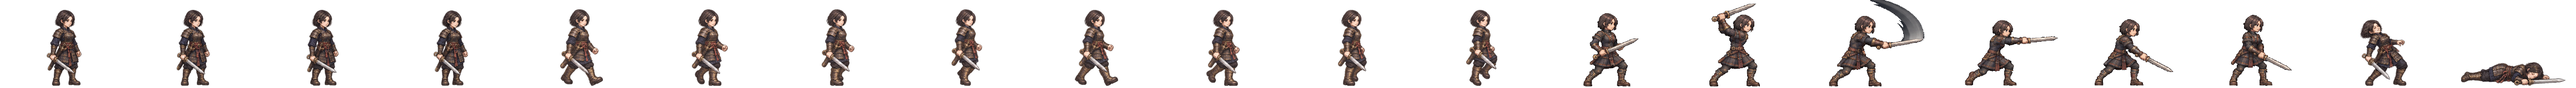
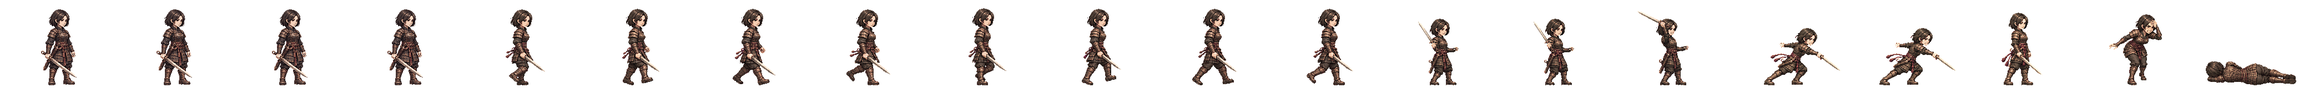
가야 검사 아라 새 전투 띠를 게임에 넣음(서기·걷기·한 손 칼 내려베기 여덟 칸·쓰러짐·칼날 살피기)
본 띠의 좁은 칸 공격은 덜 뻗은 칸으로(머리 위로 세운 칸은 위가, 끝까지 벤 칸은 앞이 넘친다).
하네스 장수 표에 다음 넷(범 사냥꾼·노을·사공·송비)을 더함.
띠 검사 합격 · 시험 2162 통과.

Claude-Session: https://claude.ai/code/session_01TRiuN7s6aDfSnaHxrkctmU

diff --git a/src/realm/data/spritePx.ts b/src/realm/data/spritePx.ts
@@ -1,3 +1,3 @@
 /** public/realm/anim-px/manifest.json 의 사본 — tools/sprite-normalize.mjs 가 만든다 (손으로 고치지 말 것). 칸 [가로, 세로] · feet = 발 줄(칸 위에서 y) · bodyPx = 서 있는 몸 키 */
 import { expandManifest } from './sprite-manifest.ts'
-export const SPRITE_PX: Readonly<Record<string, { readonly cell: readonly [number, number]; readonly feet: number; readonly bodyPx: number; readonly kind: 'general' | 'soldier' | 'folk' | 'crowd'; readonly cells: number }>> = expandManifest<{ readonly cell: readonly [number, number]; readonly feet: number; readonly bodyPx: number; readonly kind: 'general' | 'soldier' | 'folk' | 'crowd'; readonly cells: number }>([{"cell":[166,128],"feet":126,"bodyPx":124,"kind":"soldier","cells":20},{"cell":[116,128],"feet":126,"bodyPx":117,"kind":"soldier","cells":20},{"cell":[127,128],"feet":126,"bodyPx":116,"kind":"soldier","cells":20},{"cell":[269,128],"feet":126,"bodyPx":126,"kind":"soldier","cells":20},{"cell":[503,128],"feet":126,"bodyPx":127,"kind":"soldier","cells":20},{"cell":[614,128],"feet":126,"bodyPx":126,"kind":"soldier","cells":20},{"cell":[200,160],"feet":156,"bodyPx":138,"kind":"general","cells":20},{"cell":[208,160],"feet":155,"bodyPx":138,"kind":"general","cells":20},{"cell":[232,160],"feet":156,"bodyPx":138,"kind":"general","cells":20},{"cell":[208,160],"feet":154,"bodyPx":138,"kind":"general","cells":20},{"cell":[304,160],"feet":155,"bodyPx":135,"kind":"general","cells":20},{"cell":[224,160],"feet":156,"bodyPx":139,"kind":"general","cells":20},{"cell":[184,160],"feet":156,"bodyPx":138,"kind":"general","cells":20},{"cell":[208,160],"feet":154,"bodyPx":136,"kind":"general","cells":20},{"cell":[240,160],"feet":156,"bodyPx":138,"kind":"general","cells":20},{"cell":[208,160],"feet":156,"bodyPx":138,"kind":"general","cells":20},{"cell":[168,160],"feet":156,"bodyPx":138,"kind":"general","cells":20},{"cell":[192,160],"feet":156,"bodyPx":138,"kind":"general","cells":20},{"cell":[168,160],"feet":156,"bodyPx":124,"kind":"general","cells":20},{"cell":[216,160],"feet":156,"bodyPx":130,"kind":"general","cells":20},{"cell":[200,160],"feet":156,"bodyPx":116,"kind":"general","cells":20},{"cell":[200,160],"feet":156,"bodyPx":135,"kind":"general","cells":20},{"cell":[280,160],"feet":156,"bodyPx":138,"kind":"general","cells":20},{"cell":[232,160],"feet":155,"bodyPx":138,"kind":"general","cells":20},{"cell":[232,160],"feet":156,"bodyPx":134,"kind":"general","cells":20},{"cell":[144,160],"feet":156,"bodyPx":70,"kind":"general","cells":20},{"cell":[208,160],"feet":156,"bodyPx":70,"kind":"general","cells":20},{"cell":[192,160],"feet":156,"bodyPx":70,"kind":"general","cells":20},{"cell":[240,160],"feet":155,"bodyPx":138,"kind":"general","cells":20},{"cell":[160,160],"feet":156,"bodyPx":135,"kind":"general","cells":20},{"cell":[192,160],"feet":156,"bodyPx":128,"kind":"general","cells":20},{"cell":[224,160],"feet":155,"bodyPx":138,"kind":"general","cells":20},{"cell":[232,160],"feet":156,"bodyPx":139,"kind":"general","cells":20},{"cell":[264,160],"feet":155,"bodyPx":138,"kind":"general","cells":20},{"cell":[216,160],"feet":156,"bodyPx":138,"kind":"general","cells":20},{"cell":[208,160],"feet":156,"bodyPx":134,"kind":"general","cells":20},{"cell":[176,160],"feet":156,"bodyPx":130,"kind":"general","cells":20},{"cell":[248,160],"feet":156,"bodyPx":138,"kind":"general","cells":20},{"cell":[248,160],"feet":155,"bodyPx":138,"kind":"general","cells":20},{"cell":[192,160],"feet":155,"bodyPx":138,"kind":"general","cells":20},{"cell":[192,160],"feet":156,"bodyPx":124,"kind":"general","cells":20},{"cell":[208,160],"feet":154,"bodyPx":131,"kind":"general","cells":20},{"cell":[256,160],"feet":156,"bodyPx":138,"kind":"general","cells":20},{"cell":[232,160],"feet":156,"bodyPx":73,"kind":"general","cells":20},{"cell":[256,160],"feet":155,"bodyPx":138,"kind":"general","cells":20},{"cell":[224,160],"feet":156,"bodyPx":138,"kind":"general","cells":20},{"cell":[264,160],"feet":156,"bodyPx":138,"kind":"general","cells":20},{"cell":[224,160],"feet":156,"bodyPx":128,"kind":"general","cells":20},{"cell":[176,160],"feet":156,"bodyPx":129,"kind":"general","cells":20},{"cell":[208,160],"feet":156,"bodyPx":132,"kind":"general","cells":20},{"cell":[216,160],"feet":155,"bodyPx":138,"kind":"general","cells":20},{"cell":[184,160],"feet":156,"bodyPx":122,"kind":"general","cells":20},{"cell":[176,160],"feet":156,"bodyPx":138,"kind":"general","cells":20},{"cell":[280,160],"feet":155,"bodyPx":133,"kind":"general","cells":20},{"cell":[176,160],"feet":156,"bodyPx":70,"kind":"general","cells":20},{"cell":[186,128],"feet":126,"bodyPx":127,"kind":"soldier","cells":20},{"cell":[298,128],"feet":126,"bodyPx":126,"kind":"soldier","cells":20},{"cell":[82,128],"feet":126,"bodyPx":114,"kind":"folk","cells":8},{"cell":[134,128],"feet":126,"bodyPx":119,"kind":"soldier","cells":20},{"cell":[380,128],"feet":126,"bodyPx":124,"kind":"soldier","cells":20},{"cell":[114,128],"feet":126,"bodyPx":115,"kind":"soldier","cells":20},{"cell":[122,128],"feet":126,"bodyPx":114,"kind":"soldier","cells":20},{"cell":[254,128],"feet":126,"bodyPx":128,"kind":"soldier","cells":20},{"cell":[438,128],"feet":126,"bodyPx":126,"kind":"soldier","cells":20},{"cell":[88,128],"feet":126,"bodyPx":113,"kind":"folk","cells":8},{"cell":[100,128],"feet":126,"bodyPx":115,"kind":"folk","cells":8},{"cell":[108,128],"feet":126,"bodyPx":115,"kind":"folk","cells":8},{"cell":[63,128],"feet":126,"bodyPx":113,"kind":"folk","cells":8},{"cell":[69,96],"feet":96,"bodyPx":96,"kind":"crowd","cells":1},{"cell":[54,96],"feet":96,"bodyPx":96,"kind":"crowd","cells":1},{"cell":[47,96],"feet":96,"bodyPx":96,"kind":"crowd","cells":1},{"cell":[49,96],"feet":96,"bodyPx":96,"kind":"crowd","cells":1},{"cell":[57,96],"feet":96,"bodyPx":96,"kind":"crowd","cells":1},{"cell":[55,96],"feet":96,"bodyPx":96,"kind":"crowd","cells":1},{"cell":[45,96],"feet":96,"bodyPx":96,"kind":"crowd","cells":1},{"cell":[53,96],"feet":96,"bodyPx":96,"kind":"crowd","cells":1},{"cell":[64,96],"feet":96,"bodyPx":96,"kind":"crowd","cells":1},{"cell":[208,160],"feet":154,"bodyPx":139,"kind":"general","cells":20},{"cell":[184,160],"feet":156,"bodyPx":124,"kind":"general","cells":20},{"cell":[184,160],"feet":156,"bodyPx":134,"kind":"general","cells":20},{"cell":[224,160],"feet":156,"bodyPx":133,"kind":"general","cells":20},{"cell":[192,160],"feet":156,"bodyPx":135,"kind":"general","cells":20},{"cell":[184,160],"feet":156,"bodyPx":137,"kind":"general","cells":20},{"cell":[216,160],"feet":156,"bodyPx":134,"kind":"general","cells":20},{"cell":[216,160],"feet":156,"bodyPx":132,"kind":"general","cells":20},{"cell":[288,160],"feet":156,"bodyPx":138,"kind":"general","cells":20},{"cell":[192,160],"feet":156,"bodyPx":118,"kind":"general","cells":20},{"cell":[192,160],"feet":156,"bodyPx":134,"kind":"general","cells":20},{"cell":[192,160],"feet":157,"bodyPx":139,"kind":"general","cells":20},{"cell":[184,160],"feet":156,"bodyPx":128,"kind":"general","cells":20},{"cell":[240,160],"feet":156,"bodyPx":128,"kind":"general","cells":20},{"cell":[184,160],"feet":156,"bodyPx":132,"kind":"general","cells":20},{"cell":[208,160],"feet":156,"bodyPx":123,"kind":"general","cells":20},{"cell":[208,160],"feet":154,"bodyPx":137,"kind":"general","cells":20},{"cell":[176,160],"feet":156,"bodyPx":116,"kind":"general","cells":20},{"cell":[272,160],"feet":156,"bodyPx":138,"kind":"general","cells":20},{"cell":[176,160],"feet":156,"bodyPx":122,"kind":"general","cells":20},{"cell":[232,160],"feet":156,"bodyPx":127,"kind":"general","cells":20},{"cell":[176,160],"feet":156,"bodyPx":137,"kind":"general","cells":20},{"cell":[184,160],"feet":156,"bodyPx":133,"kind":"general","cells":20}],[["axe",0],["bandit-chief",1],["bandit-club",2],["boat",3],["bow",4],["crossbow",5],["gen-adogan",6],["gen-alpyeong",7],["gen-ara",8],["gen-areum",9],["gen-aryeong",10],["gen-bakdal",6],["gen-baram",11],["gen-bdanbi",12],["gen-beom",13],["gen-beombal",12],["gen-beomi",14],["gen-bira",8],["gen-biryu",15],["gen-budeul",16],["gen-byeol",17],["gen-daemusin",18],["gen-daeso",19],["gen-dallae2",12],["gen-dalli",12],["gen-damul",20],["gen-danbi",15],["gen-dangung",17],["gen-darae",21],["gen-dokmudeom",7],["gen-duman",22],["gen-eomni",23],["gen-eureum",24],["gen-g-bow",25],["gen-g-spear",26],["gen-g-sword",27],["gen-gaennae",6],["gen-gamsil",28],["gen-gaon",29],["gen-geota",15],["gen-geumbawi",12],["gen-geumha",30],["gen-goeun",15],["gen-gom",31],["gen-gomok",15],["gen-gureum",28],["gen-guryema",17],["gen-gwaeyu",8],["gen-haebi",9],["gen-haedal",6],["gen-haesol",32],["gen-halla",7],["gen-heo",33],["gen-hneoul",12],["gen-hogong",34],["gen-hojin",15],["gen-horselord",35],["gen-hwalmi",36],["gen-hyeokgeose",17],["gen-hyeopbo",6],["gen-irang",15],["gen-jibaekho",37],["gen-jinha",38],["gen-jita",39],["gen-jumong",40],["gen-keundol",7],["gen-maehwa",41],["gen-maenun",17],["gen-malgalgi",42],["gen-mari",14],["gen-maro",37],["gen-maryeo",15],["gen-mdallae",32],["gen-mir",6],["gen-mount",43],["gen-mulbeom",44],["gen-mulsae",34],["gen-musoe",34],["gen-noeul",45],["gen-nuri",46],["gen-ocheongan",45],["gen-odi",38],["gen-odogan",6],["gen-ogan",17],["gen-oi",47],["gen-olddaeso",24],["gen-onjo",48],["gen-pidogan",15],["gen-sagong",31],["gen-sdallae",6],["gen-sincheongan",34],["gen-singwigan",34],["gen-sinneoul",23],["gen-sobeol",23],["gen-soebi",6],["gen-soebo",49],["gen-soenun",37],["gen-sogeumbi",50],["gen-songbi",45],["gen-songyang",51],["gen-sori",52],["gen-soseono",53],["gen-suro",17],["gen-tahae",6],["gen-tneoul",45],["gen-w-bow",25],["gen-w-spear",54],["gen-waechief",15],["gen-wan",34],["gen-yeodogan",15],["gen-yucheongan",15],["gen-yusugan",37],["horse",55],["marine",56],["migrant",57],["militia",58],["pike",59],["pirate-captain",60],["pirate-sword",61],["shield",62],["spear",63],["villager-builder",64],["villager-farmer",65],["villager-porter",66],["villager-woman",67],["crowd-b1",68],["crowd-b2",69],["crowd-b3",70],["crowd-b4",71],["crowd-b5",72],["crowd-b6",73],["crowd-f1",68],["crowd-f2",73],["crowd-f3",74],["crowd-f4",75],["crowd-f5",68],["crowd-f6",76],["gen-dalbit",15],["gen-base-g-07-drunk-warrior",17],["gen-base-g-40-anya-adan",15],["gen-base-w-13-young-archer",9],["gen-base-g-03-sea-trader",14],["gen-base-w-10-pirate-captain",77],["gen-base-w-64-miri-dallae",77],["gen-base-g-41-goja-bau",14],["gen-base-g-42-dokro-garam",46],["gen-base-g-09-farmer-conscript",34],["gen-base-w-02-goguryeo-lady",34],["gen-base-w-17-mahan-pearl-diver",9],["gen-base-g-17-saro-isageum",49],["gen-base-g-18-daegaya-king",78],["gen-base-g-35-dabeol-dalgu",15],["gen-base-g-19-sabeol-veteran",34],["gen-base-w-23-usisan-whale-queen",34],["gen-base-g-36-gammun-gamdol",45],["gen-base-g-20-samul-sea-lord",42],["gen-base-g-37-eumjeup-jeup",12],["gen-base-g-38-chopal-palmae",17],["gen-base-w-75-daegaya-soemoe",17],["gen-base-g-45-dabeol-deulgae",12],["gen-base-g-04-jinhan-giant",15],["gen-base-g-08-veteran",15],["gen-base-w-18-jinhan-salt-widow",15],["gen-base-w-12-court-dancer",79],["gen-base-w-83-gyeonji-beodeul",80],["gen-base-w-05-baekje-queen",81],["gen-base-w-21-baekje-court-dancer",12],["gen-base-g-01-master-smith",82],["gen-base-g-93-jomun-solgae",36],["gen-base-g-57-bihwa-neup",14],["gen-base-w-72-eumjeup-beol",15],["gen-base-w-102-garak-dana",34],["gen-base-g-68-baekje-onnuri",15],["gen-base-w-27-mokji-jinha",6],["gen-base-g-22-ungcheon-gomnae",6],["gen-base-g-23-sangdang-soedal",15],["gen-base-g-24-wansan-onsan",6],["gen-base-g-25-balla-keunmoe",34],["gen-base-g-61-heomcheuk-bawi",34],["gen-base-g-88-wander-soeul",45],["gen-base-w-14-feast-spy",6],["gen-base-g-12-silla-youth",83],["gen-base-w-08-mahan-warrior",14],["gen-base-g-62-beonye-hanul",14],["gen-base-g-63-heomcheuk-beogeum",15],["gen-base-g-84-wander-seoneul",15],["gen-base-w-50-siljik-mulga",34],["gen-base-g-46-uga-nureongso",34],["gen-base-w-80-usan-gangchi",14],["gen-base-g-47-guga-sanyanggae",34],["gen-base-w-76-gampyeong-baetsagong",37],["gen-base-g-05-mahan-chieftain",84],["gen-base-g-58-usan-uhae",15],["gen-base-g-27-maek-maekdol",15],["gen-base-w-53-hwanna-gabi",16],["gen-base-w-29-golpo-janmul",37],["gen-base-g-53-baekje-haeru",6],["gen-base-w-71-yeonna-neoul",14],["gen-base-w-79-yangmaek-solmae",34],["gen-base-w-34-chopal-deulme",46],["gen-base-g-44-maga-malgup",85],["gen-base-w-31-dabeol-dalbit",77],["gen-base-g-51-biryuna-mulgyeol",45],["gen-base-g-48-gwanna-musoe",15],["gen-base-g-32-uga-sodu",8],["gen-base-g-49-goguryeo-sona",86],["gen-base-g-30-gwanna-soemoe",45],["gen-base-g-52-tamna-oreum",12],["gen-base-g-29-yeonna-myeongsol",40],["gen-base-w-56-dongokjeo-sogeum",87],["gen-base-g-54-mokji-mahan",8],["gen-base-g-33-jeoga-metdol",17],["gen-base-w-36-baekje-maena",17],["gen-base-w-38-sangdang-bulmae",6],["gen-base-w-39-gosaburi-galmae",88],["gen-base-w-40-mujin-munui",49],["gen-base-w-41-hwanna-beodeul",89],["gen-base-w-43-uga-nuri",42],["gen-base-w-45-tamna-oreumbi",12],["gen-base-g-60-golbeol-golgae",12],["gen-base-g-61-apdok-ap",34],["gen-base-g-62-gammun-gamnamu",6],["gen-base-g-63-chopal-yeoul",37],["gen-base-g-64-michuhol-sogeumkkun",14],["gen-base-g-65-sangdang-soemangchi",45],["gen-base-g-66-geonma-malbalgup",90],["gen-base-g-67-gosaburi-buri",91],["gen-base-g-68-mujin-bitgoeul",12],["gen-base-g-69-goryong-yong",45],["gen-base-g-70-siljik-pado",14],["gen-base-w-81-byeokjin-byeolbit",8],["gen-base-w-46-geonma-maru",37],["gen-base-w-48-mujin-mudeung",14],["gen-base-g-26-gampyeong-gaetbeol",8],["gen-base-g-60-eupcha-hangyeol",92],["gen-base-g-15-shaman-man",34],["gen-base-g-85-wander-ure",37],["gen-base-g-43-hwanna-amnok",15],["gen-base-g-50-bullae-gwaha",81],["gen-base-g-55-saro-bakdal",15],["gen-base-g-56-haseulla-gwahama",6],["gen-base-w-06-buyeo-huntress",93],["gen-base-w-22-dongye-tiger-huntress",14],["gen-base-w-25-bihwa-priestess",34],["gen-base-w-24-apdok-queen",12],["gen-base-w-61-iseo-sinae",15],["gen-base-w-26-iseo-tomboy-general",46],["gen-base-g-59-yangmaek-maekson",94],["gen-aw1-haebi",45],["gen-aw1-soseono",95],["gen-aw1-gamsil",12],["gen-aw1-mir",52],["gen-aw1-dangung",6],["gen-aw1-ara",45],["gen-aw1-jumong",96],["gen-aw1-onjo",97],["gen-aw1-base-w-83-gyeonji-beodeul",17],["gen-aw1-heo",46],["gen-aw1-base-g-38-chopal-palmae",6],["gen-aw1-base-w-25-bihwa-priestess",79],["gen-aw1-sori",16],["gen-aw1-gomok",6],["gen-aw1-irang",17],["gen-aw1-budeul",16],["gen-aw1-gom",14],["gen-aw1-sdallae",6],["gen-aw1-base-w-13-young-archer",6],["gen-aw1-base-w-36-baekje-maena",98],["gen-aw1-base-g-09-farmer-conscript",46],["gen-aw1-base-w-02-goguryeo-lady",99],["gen-aw1-haedal",12],["gen-aw1-hogong",6],["gen-aw1-maehwa",52],["gen-aw1-base-w-06-buyeo-huntress",8],["gen-aw1-base-w-08-mahan-warrior",45],["gen-aw1-base-w-29-golpo-janmul",45],["gen-aw1-base-w-31-dabeol-dalbit",17],["gen-aw1-base-w-38-sangdang-bulmae",16],["gen-aw1-bira",34],["gen-aw1-base-w-53-hwanna-gabi",16],["gen-aw1-base-w-56-dongokjeo-sogeum",52],["gen-aw1-base-w-72-eumjeup-beol",17],["gen-aw1-bdanbi",16],["gen-aw1-beom",12],["gen-aw1-beombal",12],["gen-aw1-byeol",17],["gen-aw1-dalli",52],["gen-aw1-malgalgi",37],["gen-aw1-sincheongan",34]])
+export const SPRITE_PX: Readonly<Record<string, { readonly cell: readonly [number, number]; readonly feet: number; readonly bodyPx: number; readonly kind: 'general' | 'soldier' | 'folk' | 'crowd'; readonly cells: number }>> = expandManifest<{ readonly cell: readonly [number, number]; readonly feet: number; readonly bodyPx: number; readonly kind: 'general' | 'soldier' | 'folk' | 'crowd'; readonly cells: number }>([{"cell":[166,128],"feet":126,"bodyPx":124,"kind":"soldier","cells":20},{"cell":[116,128],"feet":126,"bodyPx":117,"kind":"soldier","cells":20},{"cell":[127,128],"feet":126,"bodyPx":116,"kind":"soldier","cells":20},{"cell":[269,128],"feet":126,"bodyPx":126,"kind":"soldier","cells":20},{"cell":[503,128],"feet":126,"bodyPx":127,"kind":"soldier","cells":20},{"cell":[614,128],"feet":126,"bodyPx":126,"kind":"soldier","cells":20},{"cell":[200,160],"feet":156,"bodyPx":138,"kind":"general","cells":20},{"cell":[208,160],"feet":155,"bodyPx":138,"kind":"general","cells":20},{"cell":[208,160],"feet":154,"bodyPx":138,"kind":"general","cells":20},{"cell":[304,160],"feet":155,"bodyPx":135,"kind":"general","cells":20},{"cell":[224,160],"feet":156,"bodyPx":139,"kind":"general","cells":20},{"cell":[184,160],"feet":156,"bodyPx":138,"kind":"general","cells":20},{"cell":[208,160],"feet":154,"bodyPx":136,"kind":"general","cells":20},{"cell":[240,160],"feet":156,"bodyPx":138,"kind":"general","cells":20},{"cell":[232,160],"feet":156,"bodyPx":138,"kind":"general","cells":20},{"cell":[208,160],"feet":156,"bodyPx":138,"kind":"general","cells":20},{"cell":[168,160],"feet":156,"bodyPx":138,"kind":"general","cells":20},{"cell":[192,160],"feet":156,"bodyPx":138,"kind":"general","cells":20},{"cell":[168,160],"feet":156,"bodyPx":124,"kind":"general","cells":20},{"cell":[216,160],"feet":156,"bodyPx":130,"kind":"general","cells":20},{"cell":[200,160],"feet":156,"bodyPx":116,"kind":"general","cells":20},{"cell":[200,160],"feet":156,"bodyPx":135,"kind":"general","cells":20},{"cell":[280,160],"feet":156,"bodyPx":138,"kind":"general","cells":20},{"cell":[232,160],"feet":155,"bodyPx":138,"kind":"general","cells":20},{"cell":[232,160],"feet":156,"bodyPx":134,"kind":"general","cells":20},{"cell":[144,160],"feet":156,"bodyPx":70,"kind":"general","cells":20},{"cell":[208,160],"feet":156,"bodyPx":70,"kind":"general","cells":20},{"cell":[192,160],"feet":156,"bodyPx":70,"kind":"general","cells":20},{"cell":[240,160],"feet":155,"bodyPx":138,"kind":"general","cells":20},{"cell":[160,160],"feet":156,"bodyPx":135,"kind":"general","cells":20},{"cell":[192,160],"feet":156,"bodyPx":128,"kind":"general","cells":20},{"cell":[224,160],"feet":155,"bodyPx":138,"kind":"general","cells":20},{"cell":[232,160],"feet":156,"bodyPx":139,"kind":"general","cells":20},{"cell":[264,160],"feet":155,"bodyPx":138,"kind":"general","cells":20},{"cell":[216,160],"feet":156,"bodyPx":138,"kind":"general","cells":20},{"cell":[208,160],"feet":156,"bodyPx":134,"kind":"general","cells":20},{"cell":[176,160],"feet":156,"bodyPx":130,"kind":"general","cells":20},{"cell":[248,160],"feet":156,"bodyPx":138,"kind":"general","cells":20},{"cell":[248,160],"feet":155,"bodyPx":138,"kind":"general","cells":20},{"cell":[192,160],"feet":155,"bodyPx":138,"kind":"general","cells":20},{"cell":[192,160],"feet":156,"bodyPx":124,"kind":"general","cells":20},{"cell":[208,160],"feet":154,"bodyPx":131,"kind":"general","cells":20},{"cell":[256,160],"feet":156,"bodyPx":138,"kind":"general","cells":20},{"cell":[232,160],"feet":156,"bodyPx":73,"kind":"general","cells":20},{"cell":[256,160],"feet":155,"bodyPx":138,"kind":"general","cells":20},{"cell":[224,160],"feet":156,"bodyPx":138,"kind":"general","cells":20},{"cell":[264,160],"feet":156,"bodyPx":138,"kind":"general","cells":20},{"cell":[224,160],"feet":156,"bodyPx":128,"kind":"general","cells":20},{"cell":[176,160],"feet":156,"bodyPx":129,"kind":"general","cells":20},{"cell":[208,160],"feet":156,"bodyPx":132,"kind":"general","cells":20},{"cell":[216,160],"feet":155,"bodyPx":138,"kind":"general","cells":20},{"cell":[184,160],"feet":156,"bodyPx":122,"kind":"general","cells":20},{"cell":[176,160],"feet":156,"bodyPx":138,"kind":"general","cells":20},{"cell":[280,160],"feet":155,"bodyPx":133,"kind":"general","cells":20},{"cell":[176,160],"feet":156,"bodyPx":70,"kind":"general","cells":20},{"cell":[186,128],"feet":126,"bodyPx":127,"kind":"soldier","cells":20},{"cell":[298,128],"feet":126,"bodyPx":126,"kind":"soldier","cells":20},{"cell":[82,128],"feet":126,"bodyPx":114,"kind":"folk","cells":8},{"cell":[134,128],"feet":126,"bodyPx":119,"kind":"soldier","cells":20},{"cell":[380,128],"feet":126,"bodyPx":124,"kind":"soldier","cells":20},{"cell":[114,128],"feet":126,"bodyPx":115,"kind":"soldier","cells":20},{"cell":[122,128],"feet":126,"bodyPx":114,"kind":"soldier","cells":20},{"cell":[254,128],"feet":126,"bodyPx":128,"kind":"soldier","cells":20},{"cell":[438,128],"feet":126,"bodyPx":126,"kind":"soldier","cells":20},{"cell":[88,128],"feet":126,"bodyPx":113,"kind":"folk","cells":8},{"cell":[100,128],"feet":126,"bodyPx":115,"kind":"folk","cells":8},{"cell":[108,128],"feet":126,"bodyPx":115,"kind":"folk","cells":8},{"cell":[63,128],"feet":126,"bodyPx":113,"kind":"folk","cells":8},{"cell":[69,96],"feet":96,"bodyPx":96,"kind":"crowd","cells":1},{"cell":[54,96],"feet":96,"bodyPx":96,"kind":"crowd","cells":1},{"cell":[47,96],"feet":96,"bodyPx":96,"kind":"crowd","cells":1},{"cell":[49,96],"feet":96,"bodyPx":96,"kind":"crowd","cells":1},{"cell":[57,96],"feet":96,"bodyPx":96,"kind":"crowd","cells":1},{"cell":[55,96],"feet":96,"bodyPx":96,"kind":"crowd","cells":1},{"cell":[45,96],"feet":96,"bodyPx":96,"kind":"crowd","cells":1},{"cell":[53,96],"feet":96,"bodyPx":96,"kind":"crowd","cells":1},{"cell":[64,96],"feet":96,"bodyPx":96,"kind":"crowd","cells":1},{"cell":[208,160],"feet":154,"bodyPx":139,"kind":"general","cells":20},{"cell":[184,160],"feet":156,"bodyPx":124,"kind":"general","cells":20},{"cell":[184,160],"feet":156,"bodyPx":134,"kind":"general","cells":20},{"cell":[224,160],"feet":156,"bodyPx":133,"kind":"general","cells":20},{"cell":[192,160],"feet":156,"bodyPx":135,"kind":"general","cells":20},{"cell":[184,160],"feet":156,"bodyPx":137,"kind":"general","cells":20},{"cell":[216,160],"feet":156,"bodyPx":134,"kind":"general","cells":20},{"cell":[216,160],"feet":156,"bodyPx":132,"kind":"general","cells":20},{"cell":[288,160],"feet":156,"bodyPx":138,"kind":"general","cells":20},{"cell":[192,160],"feet":156,"bodyPx":118,"kind":"general","cells":20},{"cell":[192,160],"feet":156,"bodyPx":134,"kind":"general","cells":20},{"cell":[192,160],"feet":157,"bodyPx":139,"kind":"general","cells":20},{"cell":[184,160],"feet":156,"bodyPx":128,"kind":"general","cells":20},{"cell":[240,160],"feet":156,"bodyPx":128,"kind":"general","cells":20},{"cell":[184,160],"feet":156,"bodyPx":132,"kind":"general","cells":20},{"cell":[208,160],"feet":156,"bodyPx":123,"kind":"general","cells":20},{"cell":[208,160],"feet":154,"bodyPx":137,"kind":"general","cells":20},{"cell":[176,160],"feet":156,"bodyPx":116,"kind":"general","cells":20},{"cell":[272,160],"feet":156,"bodyPx":138,"kind":"general","cells":20},{"cell":[176,160],"feet":156,"bodyPx":122,"kind":"general","cells":20},{"cell":[232,160],"feet":156,"bodyPx":127,"kind":"general","cells":20},{"cell":[176,160],"feet":156,"bodyPx":137,"kind":"general","cells":20},{"cell":[184,160],"feet":156,"bodyPx":133,"kind":"general","cells":20}],[["axe",0],["bandit-chief",1],["bandit-club",2],["boat",3],["bow",4],["crossbow",5],["gen-adogan",6],["gen-alpyeong",7],["gen-ara",8],["gen-areum",8],["gen-aryeong",9],["gen-bakdal",6],["gen-baram",10],["gen-bdanbi",11],["gen-beom",12],["gen-beombal",11],["gen-beomi",13],["gen-bira",14],["gen-biryu",15],["gen-budeul",16],["gen-byeol",17],["gen-daemusin",18],["gen-daeso",19],["gen-dallae2",11],["gen-dalli",11],["gen-damul",20],["gen-danbi",15],["gen-dangung",17],["gen-darae",21],["gen-dokmudeom",7],["gen-duman",22],["gen-eomni",23],["gen-eureum",24],["gen-g-bow",25],["gen-g-spear",26],["gen-g-sword",27],["gen-gaennae",6],["gen-gamsil",28],["gen-gaon",29],["gen-geota",15],["gen-geumbawi",11],["gen-geumha",30],["gen-goeun",15],["gen-gom",31],["gen-gomok",15],["gen-gureum",28],["gen-guryema",17],["gen-gwaeyu",14],["gen-haebi",8],["gen-haedal",6],["gen-haesol",32],["gen-halla",7],["gen-heo",33],["gen-hneoul",11],["gen-hogong",34],["gen-hojin",15],["gen-horselord",35],["gen-hwalmi",36],["gen-hyeokgeose",17],["gen-hyeopbo",6],["gen-irang",15],["gen-jibaekho",37],["gen-jinha",38],["gen-jita",39],["gen-jumong",40],["gen-keundol",7],["gen-maehwa",41],["gen-maenun",17],["gen-malgalgi",42],["gen-mari",13],["gen-maro",37],["gen-maryeo",15],["gen-mdallae",32],["gen-mir",6],["gen-mount",43],["gen-mulbeom",44],["gen-mulsae",34],["gen-musoe",34],["gen-noeul",45],["gen-nuri",46],["gen-ocheongan",45],["gen-odi",38],["gen-odogan",6],["gen-ogan",17],["gen-oi",47],["gen-olddaeso",24],["gen-onjo",48],["gen-pidogan",15],["gen-sagong",31],["gen-sdallae",6],["gen-sincheongan",34],["gen-singwigan",34],["gen-sinneoul",23],["gen-sobeol",23],["gen-soebi",6],["gen-soebo",49],["gen-soenun",37],["gen-sogeumbi",50],["gen-songbi",45],["gen-songyang",51],["gen-sori",52],["gen-soseono",53],["gen-suro",17],["gen-tahae",6],["gen-tneoul",45],["gen-w-bow",25],["gen-w-spear",54],["gen-waechief",15],["gen-wan",34],["gen-yeodogan",15],["gen-yucheongan",15],["gen-yusugan",37],["horse",55],["marine",56],["migrant",57],["militia",58],["pike",59],["pirate-captain",60],["pirate-sword",61],["shield",62],["spear",63],["villager-builder",64],["villager-farmer",65],["villager-porter",66],["villager-woman",67],["crowd-b1",68],["crowd-b2",69],["crowd-b3",70],["crowd-b4",71],["crowd-b5",72],["crowd-b6",73],["crowd-f1",68],["crowd-f2",73],["crowd-f3",74],["crowd-f4",75],["crowd-f5",68],["crowd-f6",76],["gen-dalbit",15],["gen-base-g-07-drunk-warrior",17],["gen-base-g-40-anya-adan",15],["gen-base-w-13-young-archer",8],["gen-base-g-03-sea-trader",13],["gen-base-w-10-pirate-captain",77],["gen-base-w-64-miri-dallae",77],["gen-base-g-41-goja-bau",13],["gen-base-g-42-dokro-garam",46],["gen-base-g-09-farmer-conscript",34],["gen-base-w-02-goguryeo-lady",34],["gen-base-w-17-mahan-pearl-diver",8],["gen-base-g-17-saro-isageum",49],["gen-base-g-18-daegaya-king",78],["gen-base-g-35-dabeol-dalgu",15],["gen-base-g-19-sabeol-veteran",34],["gen-base-w-23-usisan-whale-queen",34],["gen-base-g-36-gammun-gamdol",45],["gen-base-g-20-samul-sea-lord",42],["gen-base-g-37-eumjeup-jeup",11],["gen-base-g-38-chopal-palmae",17],["gen-base-w-75-daegaya-soemoe",17],["gen-base-g-45-dabeol-deulgae",11],["gen-base-g-04-jinhan-giant",15],["gen-base-g-08-veteran",15],["gen-base-w-18-jinhan-salt-widow",15],["gen-base-w-12-court-dancer",79],["gen-base-w-83-gyeonji-beodeul",80],["gen-base-w-05-baekje-queen",81],["gen-base-w-21-baekje-court-dancer",11],["gen-base-g-01-master-smith",82],["gen-base-g-93-jomun-solgae",36],["gen-base-g-57-bihwa-neup",13],["gen-base-w-72-eumjeup-beol",15],["gen-base-w-102-garak-dana",34],["gen-base-g-68-baekje-onnuri",15],["gen-base-w-27-mokji-jinha",6],["gen-base-g-22-ungcheon-gomnae",6],["gen-base-g-23-sangdang-soedal",15],["gen-base-g-24-wansan-onsan",6],["gen-base-g-25-balla-keunmoe",34],["gen-base-g-61-heomcheuk-bawi",34],["gen-base-g-88-wander-soeul",45],["gen-base-w-14-feast-spy",6],["gen-base-g-12-silla-youth",83],["gen-base-w-08-mahan-warrior",13],["gen-base-g-62-beonye-hanul",13],["gen-base-g-63-heomcheuk-beogeum",15],["gen-base-g-84-wander-seoneul",15],["gen-base-w-50-siljik-mulga",34],["gen-base-g-46-uga-nureongso",34],["gen-base-w-80-usan-gangchi",13],["gen-base-g-47-guga-sanyanggae",34],["gen-base-w-76-gampyeong-baetsagong",37],["gen-base-g-05-mahan-chieftain",84],["gen-base-g-58-usan-uhae",15],["gen-base-g-27-maek-maekdol",15],["gen-base-w-53-hwanna-gabi",16],["gen-base-w-29-golpo-janmul",37],["gen-base-g-53-baekje-haeru",6],["gen-base-w-71-yeonna-neoul",13],["gen-base-w-79-yangmaek-solmae",34],["gen-base-w-34-chopal-deulme",46],["gen-base-g-44-maga-malgup",85],["gen-base-w-31-dabeol-dalbit",77],["gen-base-g-51-biryuna-mulgyeol",45],["gen-base-g-48-gwanna-musoe",15],["gen-base-g-32-uga-sodu",14],["gen-base-g-49-goguryeo-sona",86],["gen-base-g-30-gwanna-soemoe",45],["gen-base-g-52-tamna-oreum",11],["gen-base-g-29-yeonna-myeongsol",40],["gen-base-w-56-dongokjeo-sogeum",87],["gen-base-g-54-mokji-mahan",14],["gen-base-g-33-jeoga-metdol",17],["gen-base-w-36-baekje-maena",17],["gen-base-w-38-sangdang-bulmae",6],["gen-base-w-39-gosaburi-galmae",88],["gen-base-w-40-mujin-munui",49],["gen-base-w-41-hwanna-beodeul",89],["gen-base-w-43-uga-nuri",42],["gen-base-w-45-tamna-oreumbi",11],["gen-base-g-60-golbeol-golgae",11],["gen-base-g-61-apdok-ap",34],["gen-base-g-62-gammun-gamnamu",6],["gen-base-g-63-chopal-yeoul",37],["gen-base-g-64-michuhol-sogeumkkun",13],["gen-base-g-65-sangdang-soemangchi",45],["gen-base-g-66-geonma-malbalgup",90],["gen-base-g-67-gosaburi-buri",91],["gen-base-g-68-mujin-bitgoeul",11],["gen-base-g-69-goryong-yong",45],["gen-base-g-70-siljik-pado",13],["gen-base-w-81-byeokjin-byeolbit",14],["gen-base-w-46-geonma-maru",37],["gen-base-w-48-mujin-mudeung",13],["gen-base-g-26-gampyeong-gaetbeol",14],["gen-base-g-60-eupcha-hangyeol",92],["gen-base-g-15-shaman-man",34],["gen-base-g-85-wander-ure",37],["gen-base-g-43-hwanna-amnok",15],["gen-base-g-50-bullae-gwaha",81],["gen-base-g-55-saro-bakdal",15],["gen-base-g-56-haseulla-gwahama",6],["gen-base-w-06-buyeo-huntress",93],["gen-base-w-22-dongye-tiger-huntress",13],["gen-base-w-25-bihwa-priestess",34],["gen-base-w-24-apdok-queen",11],["gen-base-w-61-iseo-sinae",15],["gen-base-w-26-iseo-tomboy-general",46],["gen-base-g-59-yangmaek-maekson",94],["gen-aw1-haebi",45],["gen-aw1-soseono",95],["gen-aw1-gamsil",11],["gen-aw1-mir",52],["gen-aw1-dangung",6],["gen-aw1-ara",45],["gen-aw1-jumong",96],["gen-aw1-onjo",97],["gen-aw1-base-w-83-gyeonji-beodeul",17],["gen-aw1-heo",46],["gen-aw1-base-g-38-chopal-palmae",6],["gen-aw1-base-w-25-bihwa-priestess",79],["gen-aw1-sori",16],["gen-aw1-gomok",6],["gen-aw1-irang",17],["gen-aw1-budeul",16],["gen-aw1-gom",13],["gen-aw1-sdallae",6],["gen-aw1-base-w-13-young-archer",6],["gen-aw1-base-w-36-baekje-maena",98],["gen-aw1-base-g-09-farmer-conscript",46],["gen-aw1-base-w-02-goguryeo-lady",99],["gen-aw1-haedal",11],["gen-aw1-hogong",6],["gen-aw1-maehwa",52],["gen-aw1-base-w-06-buyeo-huntress",14],["gen-aw1-base-w-08-mahan-warrior",45],["gen-aw1-base-w-29-golpo-janmul",45],["gen-aw1-base-w-31-dabeol-dalbit",17],["gen-aw1-base-w-38-sangdang-bulmae",16],["gen-aw1-bira",34],["gen-aw1-base-w-53-hwanna-gabi",16],["gen-aw1-base-w-56-dongokjeo-sogeum",52],["gen-aw1-base-w-72-eumjeup-beol",17],["gen-aw1-bdanbi",16],["gen-aw1-beom",11],["gen-aw1-beombal",11],["gen-aw1-byeol",17],["gen-aw1-dalli",52],["gen-aw1-malgalgi",37],["gen-aw1-sincheongan",34]])

diff --git a/src/duel/view.ts b/src/duel/view.ts
@@ -100,7 +100,7 @@ const crowdFront = [1, 2, 3, 4, 5, 6].map((i) => img(`realm/duel/crowd/b${i}.png
 const crowdReady = (set: HTMLImageElement[]): boolean => set.every((im) => im.complete && im.naturalWidth > 0)
 const pxMode = cfg.px !== false && params.get('px') !== '0'
 /** 겨루기 전용 옛 띠(duel/sprites) 대신 열전과 같은 도트 띠(anim-px)를 쓰는 장수 — 두 판에서 같은 모습 · 서기 계획·쓰러지는 칸도 같다 (11-23 범 · 매화 · 달빛 · 11-24 해비 · 아룸) */
-const PX_DUEL: ReadonlySet<string> = new Set(['beom', 'maehwa', 'base-w-31-dabeol-dalbit', 'haebi', 'areum', 'base-w-13-young-archer', 'base-w-10-pirate-captain', 'base-w-17-mahan-pearl-diver', 'base-w-06-buyeo-huntress', 'base-w-64-miri-dallae'])
+const PX_DUEL: ReadonlySet<string> = new Set(['beom', 'maehwa', 'base-w-31-dabeol-dalbit', 'haebi', 'areum', 'base-w-13-young-archer', 'base-w-10-pirate-captain', 'base-w-17-mahan-pearl-diver', 'base-w-06-buyeo-huntress', 'base-w-64-miri-dallae', 'ara'])
 /** 띠 그림 — 기본은 anim-px(도트 규격) 먼저, 없으면 옛 띠로 (img 의 onerror 가 갈아 끼운다) */
 const strip = (s: string): HTMLImageElement => pxMode
   ? DUEL_ATLASES[s] !== undefined && !PX_DUEL.has(s) ? img(`realm/duel/sprites/gen-${s}.png`, `realm/anim-px/gen-${s}.png`)

diff --git a/src/tune/params.ts b/src/tune/params.ts
@@ -1420,6 +1420,7 @@ export const HAEBI_IDLE = {
     'base-w-17-mahan-pearl-diver': { cells: 34, base: [0, 1], hold: 2.4, fall: [18, 20, 21, 19], quirk: [22, 23, 24, 25], quirkTimes: [.3, .32, .4, .28], attack: { cells: [26, 27, 28, 29, 30, 31, 32, 33], times: [.09, .08, .11, .12, .12, .08, .08, .12], hit: 3 }, xGeom: { h: 224, root: 92, foot: 216 } },
     'base-w-06-buyeo-huntress': { cells: 34, base: [0, 1], hold: 2.4, fall: [18, 20, 21, 19], quirk: [22, 23, 24, 25], quirkTimes: [.3, .32, .4, .28], attack: { cells: [26, 27, 28, 29, 30, 31, 32, 33], times: [.09, .08, .11, .05, .15, .07, .08, .12], hit: 4 }, xGeom: { h: 224, root: 92, foot: 216 } },
     'base-w-64-miri-dallae': { cells: 34, base: [0, 1], hold: 2.4, fall: [18, 20, 21, 19], quirk: [22, 23, 24, 25], quirkTimes: [.3, .32, .4, .28], attack: { cells: [26, 27, 28, 29, 30, 31, 32, 33], times: [.09, .08, .11, .05, .15, .07, .08, .12], hit: 4 }, xGeom: { h: 224, root: 92, foot: 216 } },
+    ara: { cells: 34, base: [0, 1], hold: 2.4, fall: [18, 20, 21, 19], quirk: [22, 23, 24, 25], quirkTimes: [.3, .32, .4, .28], attack: { cells: [26, 27, 28, 29, 30, 31, 32, 33], times: [.09, .08, .11, .05, .15, .07, .08, .12], hit: 4 }, xGeom: { h: 224, root: 92, foot: 216 } },
   },
 } as const
 export const HAEBI_ANIM = {

diff --git a/src/raid/hero-hd.ts b/src/raid/hero-hd.ts
@@ -74,7 +74,6 @@ export const HERO_HD: Readonly<Record<string, string>> = {
   'anim-px/gen-aw1-dangung.png': 'anim-px/gen-aw1-dangung_hd.png',
   'anim-px/gen-aw1-onjo.png': 'anim-px/gen-aw1-onjo_hd.png',
   'anim-px/gen-onjo.png': 'anim-px/gen-onjo_hd.png',
-  'anim-px/gen-ara.png': 'anim-px/gen-ara_hd.png',
   'anim-px/gen-soebi.png': 'anim-px/gen-soebi_hd.png',
   'anim-px/gen-aw1-irang.png': 'anim-px/gen-aw1-irang_hd.png',
   'anim-px/gen-aw1-haedal.png': 'anim-px/gen-aw1-haedal_hd.png',

diff --git a/tools/sprite-kit/anim-harness.py b/tools/sprite-kit/anim-harness.py
@@ -39,7 +39,11 @@ HEROES = {
                   cells8=[('a', 1), ('a', 2), ('a', 3), ('a', 4), ('a', 4), ('a', 3), ('a', 2), ('a', 1)]),   # 해녀(작살) · 뒤 판 b 는 그림 도구가 거절 → 앞 판으로: 타격 = 넷째(a4) · wire-hero hit=3
     'huntress': dict(strip='gen-base-w-06-buyeo-huntress', atk='thrust', atk8=True, act=True, legacy=(('a', 2), ('a', 3), ('b', 3), ('b', 4))),   # 부여 사냥꾼(창)
     'dallae': dict(strip='gen-base-w-64-miri-dallae', atk='thrust', atk8=True, act=True, legacy=(('a', 2), ('a', 3), ('b', 3), ('b', 4))),   # 미리 군주 달래(창)
-    'ara': dict(strip='gen-ara', atk='slash', atk8=True, act=True),   # 가야 검사 아라(한 손 칼)
+    'ara': dict(strip='gen-ara', atk='slash', atk8=True, act=True, legacy=(('a', 1), ('a', 3), ('b', 2), ('b', 4))),   # 가야 검사 아라(한 손 칼) · 좁은 칸: 머리 위로 곧게 세운 a2 는 위가, 끝까지 벤 b1 은 앞이 넘친다
+    'dtiger': dict(strip='gen-base-w-22-dongye-tiger-huntress', atk='thrust', atk8=True, act=True, legacy=(('a', 2), ('a', 3), ('b', 3), ('b', 4))),   # 동예 범 사냥꾼(창)
+    'noeul': dict(strip='gen-noeul', atk='bow', atk8=False),   # 사로 노을(활)
+    'sagong': dict(strip='gen-sagong', atk='thrust', atk8=True, act=True, legacy=(('a', 2), ('a', 3), ('b', 3), ('b', 4))),   # 사물 사공(두 손 노 · 찌르기)
+    'songbi': dict(strip='gen-songbi', atk='bow', atk8=False),   # 비류나 송비(활)
     'haebi': dict(strip='gen-haebi', atk='chop', atk8=True, act=True),   # act = 공격 여덟 칸이 넓은 동작 칸(240×224 · 뿌리 92 · 발 줄 216)
     'areum': dict(strip='gen-areum', atk='slam', atk8=True, act=True, lock='none'),   # 받은 그림 그대로(얼굴을 떠다 붙이지 않는다 — 11-24: 뭉친 얼굴이 여덟 칸에 퍼졌다) · 옛 lock='face': 메가 머리 뒤로 지나간다 — 머리 상자는 메를 자르고(「포스터」), 윗몸을 통째로 묶으면 떠다닌다(11-24 형) → 얼굴 안쪽만 묶는다
 }
